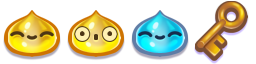
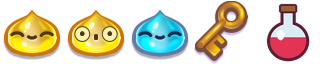
feat(rpg): an inventory: the key is taken, potions, a Potion button (#19)
Beyond the demo: what the player walks into is taken and stays taken
(game state `taken`, `qg:instance if=`); two potions lie on the map; a HUD
shows what it carries; in the fight a Potion button, while it has one,
gives back 5 life up to 10. The potion is drawn by scripts/art/rpg.py.
No language change: game state, qg:destroy and qg:button if= do it.

Claude-Session: https://claude.ai/code/session_01FsrC3AZ9jmgbCn58YFQdGA

diff --git a/scripts/art/rpg.py b/scripts/art/rpg.py
@@ -8,7 +8,8 @@ its world with three TileMapLayers whose tiles are single images, each
 placed flipped or transposed. Here every (image, transform) used becomes one
 64 px tile of assets/tiles.png, and the layers are printed as the CSV rows of
 the qg:tilemaps in rpg.q (the visible 20x11 cells). The pawns, the
-combatants and the combat background are packed as they are.
+combatants and the combat background are packed as they are. The potion,
+which the demo does not have, is drawn here (CC0) as the fifth pawn.
 """
 
 import base64
@@ -17,7 +18,7 @@ import struct
 import sys
 from pathlib import Path
 
-from PIL import Image
+from PIL import Image, ImageDraw
 
 OUT = Path(__file__).resolve().parents[2] / 'projects' / 'rpg' / 'assets'
 TILE, COLS, ROWS = 64, 20, 11
@@ -91,6 +92,24 @@ def sheet(demo: Path, files, cell: int) -> Image.Image:
     return out
 
 
+def potion() -> Image.Image:
+    """A round flask of red potion with a cork, in the demo's soft, outlined style."""
+    big = Image.new('RGBA', (256, 256), (0, 0, 0, 0))   # drawn 4x, then scaled down: smooth edges
+    d = ImageDraw.Draw(big)
+    outline, glass, red, shine = (90, 30, 50, 255), (220, 236, 245, 255), (226, 52, 84, 255), (255, 255, 255, 200)
+    d.ellipse((44, 84, 212, 244), fill=outline)                      # the bowl
+    d.rounded_rectangle((98, 36, 158, 110), 12, fill=outline)        # the neck
+    d.ellipse((56, 96, 200, 232), fill=glass)
+    d.rounded_rectangle((110, 48, 146, 112), 8, fill=glass)
+    liquid = Image.new('L', (256, 256), 0)                           # the potion: the bowl below its surface
+    ImageDraw.Draw(liquid).ellipse((56, 96, 200, 232), fill=255)
+    ImageDraw.Draw(liquid).rectangle((0, 0, 256, 148), fill=0)
+    big.paste(Image.new('RGBA', (256, 256), red), (0, 0), liquid)
+    d.rounded_rectangle((92, 16, 164, 52), 10, fill=(150, 98, 60, 255), outline=outline, width=8)   # the cork
+    d.ellipse((84, 120, 112, 160), fill=shine)
+    return big.resize((64, 64), Image.LANCZOS)
+
+
 def main(argv) -> int:
     if len(argv) != 1:
         print(__doc__)
@@ -110,7 +129,11 @@ def main(argv) -> int:
     for i, (image, flags) in enumerate(tiles):
         atlas.alpha_composite(transformed(demo, image, flags), ((i % per_row) * TILE, (i // per_row) * TILE))
     atlas.save(OUT / 'tiles.png')
-    sheet(demo, PAWNS, 64).save(OUT / 'pawns.png')
+    pawns = sheet(demo, PAWNS, 64)
+    with_potion = Image.new('RGBA', (pawns.width + 64, 64), (0, 0, 0, 0))
+    with_potion.alpha_composite(pawns)
+    with_potion.alpha_composite(potion(), (pawns.width, 0))
+    with_potion.save(OUT / 'pawns.png')
     sheet(demo, FIGHTERS, 128).save(OUT / 'fighters.png')
     Image.open(demo / 'combat' / 'background' / 'combat_background.png').convert('RGB').save(OUT / 'arena.png')
     for name in LAYERS:

diff --git a/tests/godot/test_godot_rpg.py b/tests/godot/test_godot_rpg.py
@@ -71,15 +71,38 @@ def test_a_wall_is_a_bump_that_takes_as_long_as_a_step(project):
     assert player(state)['y'] == 96.0 and 'talking' not in state
 
 
-def test_the_key_says_what_it_is_and_select_closes_it(project):
+def test_the_key_says_what_it_is_and_is_taken(project):
     # (3, 4) down to row 7, right to column 11, up the gap of the rocks to row 4, left into the key at (8, 4)
     walk = [('down', 1, 40), ('right', 50, 165), ('up', 180, 215), ('left', 230, 265)]
     state = play(project, 275, walk)
     assert (player(state)['col'], player(state)['row']) == (9, 4)
     assert state['talking'] == 'key' and state['paused'] is True
-    closed = play(project, 295, walk + [('select', 285, 286)])
+    assert 'key' not in state['things'] and state['game']['keys'] == 1        # beyond the demo: it is taken
+    assert state['game']['taken'] == ['key']
+    closed = play(project, 310, walk + [('select', 285, 286), ('select', 300, 301)])
     assert 'talking' not in closed and 'paused' not in closed
-    assert closed['things']['key'] == 1                                        # it stays where it is
+
+
+# Beyond the demo: two potions on the map, and a Potion button in the fight.
+TO_THE_POTION = [('up', 1, 45), ('left', 50, 70)]           # (3, 4) up to (3, 1), left to (2, 1), into (1, 1)
+
+
+def test_a_potion_is_picked_up(project):
+    state = play(project, 80, TO_THE_POTION)
+    assert state['talking'] == 'potion' and state['game']['potions'] == 1
+    assert state['things'] == {'key': 1, 'opponent': 1, 'potion': 1}           # the other one, at (14, 9)
+
+
+def test_a_potion_gives_back_five_life_up_to_ten_in_the_fight(project):
+    # from (2, 1): right to (11, 1), down to (11, 7), into the opponent; its three lines; the fight
+    to_fight = TO_THE_POTION + [('select', 90, 91), ('right', 100, 235), ('down', 240, 330), ('right', 340, 345),
+                                ('select', 360, 361), ('select', 375, 376), ('select', 390, 391)]
+    fight = play(project, 395, to_fight)
+    assert fight['scene'] == 'combat' and fight['game']['potions'] == 1
+    hit = to_fight + [('select', 400, 401)]                                     # Attack; the answer: 8 life
+    assert play(project, 425, hit)['life'] == 8
+    drunk = play(project, 445, hit + [('down', 428, 429), ('down', 432, 433), ('select', 440, 441)])
+    assert (drunk['life'], drunk['game']['potions'], drunk['turn']) == (10, 0, 'opponent')   # 8 + 5, at most 10
 
 
 def test_the_opponent_talks_three_lines_then_fights(project):

diff --git a/docs/targets/games.md b/docs/targets/games.md
@@ -3070,6 +3070,10 @@ Each one is written in these tags and nothing else, and replayed in CI from inpu
   <q:set name="outcome" value="" />
   <q:set name="back_col" value="3" type="number" />
   <q:set name="back_row" value="4" type="number" />
+  <!-- Beyond the demo: what the player carries, and what it took from the map, by name. -->
+  <q:set name="keys" value="0" type="number" />
+  <q:set name="potions" value="0" type="number" />
+  <q:set name="taken" value="[]" type="array" />
 
   <!-- The demo's ui_accept: Enter, Space, the joypad's A; and a click. -->
   <qg:input action="select" keys="Enter, Space, MouseLeft, JoyA" />
@@ -3083,6 +3087,7 @@ Each one is written in these tags and nothing else, and replayed in CI from inpu
 
   <qg:prefab name="Opponent" tag="opponent" sheet="pawns" frame="2" hitbox="48x48" />
   <qg:prefab name="Key" tag="key" sheet="pawns" frame="3" hitbox="48x48" />
+  <qg:prefab name="Potion" tag="potion" sheet="pawns" frame="4" hitbox="48x48" />
 
   <!-- ===== Exploration: grid_movement/exploration.tscn ===== -->
 
@@ -3127,7 +3132,9 @@ Each one is written in these tags and nothing else, and replayed in CI from inpu
 28,28,28,28,28,28,28,43,44,44,44,44,44,44,44,44,44,36,38,28
     </qg:tilemap>
 
-    <qg:instance prefab="Key" x="544" y="288" />
+    <qg:instance prefab="Key" name="key" x="544" y="288" if="{'key' not in taken}" />
+    <qg:instance prefab="Potion" name="potion-1" x="96" y="96" if="{'potion-1' not in taken}" />
+    <qg:instance prefab="Potion" name="potion-2" x="928" y="608" if="{'potion-2' not in taken}" />
     <qg:instance prefab="Opponent" x="800" y="480" />
 
     <qg:character id="player" controller="grid" diagonal="true" step-frames="15"
@@ -3136,7 +3143,16 @@ Each one is written in these tags and nothing else, and replayed in CI from inpu
       <qg:animation name="walk" frames="0" fps="1" />
       <qg:animation name="bump" frames="1" fps="1" />
       <qg:on-collision with="key">
+        <q:set name="taken" value="{taken + [other.name]}" />
+        <q:set name="keys" value="{keys + 1}" />
+        <qg:destroy target="other" />
         <qg:say dialogue="key" />
+      </qg:on-collision>
+      <qg:on-collision with="potion">
+        <q:set name="taken" value="{taken + [other.name]}" />
+        <q:set name="potions" value="{potions + 1}" />
+        <qg:destroy target="other" />
+        <qg:say dialogue="potion" />
       </qg:on-collision>
       <qg:on-collision with="opponent">
         <q:set name="back_col" value="{me.col}" />
@@ -3156,7 +3172,17 @@ Each one is written in these tags and nothing else, and replayed in CI from inpu
     </qg:dialogue>
     <qg:dialogue name="key" font="assets/montserrat_extra_bold.otf" size="28">
       <qg:line who="PLAYER" text="Just a key..." />
+      <qg:line who="PLAYER" text="I'll keep it anyway." />
     </qg:dialogue>
+    <qg:dialogue name="potion" font="assets/montserrat_extra_bold.otf" size="28">
+      <qg:line who="PLAYER" text="A potion! In a fight, it gives back 5 life." />
+    </qg:dialogue>
+
+    <!-- What the player carries. -->
+    <qg:hud position="top-left" font="assets/montserrat_extra_bold.otf" size="24">
+      <qg:counter bind="potions" label="Potions" />
+      <qg:counter bind="keys" label="Keys" />
+    </qg:hud>
     <qg:dialogue name="won" font="assets/montserrat_extra_bold.otf" size="28">
       <qg:line who="OPPONENT" text="Congratulations, you won!" />
       <qg:on-end><q:set name="outcome" value="" /></qg:on-end>
@@ -3223,6 +3249,12 @@ Each one is written in these tags and nothing else, and replayed in CI from inpu
       </qg:button>
       <qg:button label="Defend">
         <q:set name="armor" value="{armor + 1}" />
+        <q:call function="foes_turn" />
+      </qg:button>
+      <!-- beyond the demo: a potion gives back 5 life (health.gd's heal, up to the most) -->
+      <qg:button label="Potion" if="{potions > 0}">
+        <q:set name="potions" value="{potions - 1}" />
+        <q:set name="life" value="{min(10, life + 5)}" />
         <q:call function="foes_turn" />
       </qg:button>
       <qg:button label="Flee">

diff --git a/projects/rpg/README.md b/projects/rpg/README.md
@@ -34,6 +34,23 @@ These differences are deliberate:
 - The fight's names and life bars are a HUD over the background, not the demo's panels, and the buttons are the language's menu. The blue and green pillars are not drawn.
 - There is no fade to black between the map and the fight.
 
+## Beyond the demo
+
+The demo has a key that says "Just a key..." and nothing to carry. Here the
+player takes what it walks into, in the game state, so the map remembers it
+across fights:
+
+- the key: `keys`, and its name in `taken`, so its `qg:instance if=` leaves it
+  off the map from then on;
+- two potions on the map, at (1, 1) and (14, 9): `potions`;
+- a HUD with what it carries, and a Potion button in the fight, shown while
+  it has one: 5 life back, up to 10 (the demo's `health.gd` has a `heal`
+  nothing calls), and the opponent's turn.
+
+The potion is drawn by `scripts/art/rpg.py` (CC0). All of it is the
+language as it was: game state, `qg:instance if=`, `qg:destroy`, `qg:menu`
+buttons with `if=`.
+
 ## What the language had to grow
 
 1. **Grid walking**: `controller="grid"` steps from cell centre to cell
@@ -58,4 +75,5 @@ Every number above is checked in Godot by `tests/godot/test_godot_rpg.py`:
 - an attack, and the answer a quarter of a second later;
 - Defend's armor, for one hit;
 - four attacks that win, and the line on the map from where the fight started;
-- Flee, which loses.
+- Flee, which loses;
+- a potion picked up, and drunk in the fight.

diff --git a/docs/targets/play.md b/docs/targets/play.md
@@ -52,7 +52,7 @@ command line skips the title:
 - **Arena**: player 1 A/D, W jump, S crouch, J punch, K kick; player 2 the arrows, `.` punch, `/` kick. Hold away from the opponent to block.
 - **Chess**: click a piece, then a square (white first).
 - **Robot**: arrows or A/D; Up, W or the joypad's A jumps (again in the air); Space, Z or Ctrl shoots; Escape pauses.
-- **RPG**: arrows or WASD walk (two at once, diagonally); walk into someone to talk; Enter, Space or a click shows the next line; in the fight, Attack, Defend or Flee.
+- **RPG**: arrows or WASD walk (two at once, diagonally); walk into someone to talk; Enter, Space or a click shows the next line; in the fight, Attack, Defend, Potion or Flee.
 
 A joypad works everywhere: the pad or the left stick moves, A jumps or
 selects, B cancels. Player 2 reads the second joypad.

diff --git a/projects/rpg/assets/LICENSE.md b/projects/rpg/assets/LICENSE.md
@@ -7,7 +7,8 @@ and 2007-2014 Juan Linietsky, Ariel Manzur), packed by `scripts/art/rpg.py`:
 - `tiles.png`: the demo's tile images (`grid_movement/grid/tiles/`), each one
   flipped or turned as the demo's map places it, one 64 px tile per placement.
 - `pawns.png`: the player's two faces on the map, the opponent's, and the key
-  (`grid_movement/pawns/`, `grid_movement/grid/tiles/object.png`).
+  (`grid_movement/pawns/`, `grid_movement/grid/tiles/object.png`), and a
+  potion, which the demo does not have, drawn by the script (CC0).
 - `fighters.png`: the two slimes in the fight, each calm and surprised, and
   their shadow (`combat/combatants/sprites/`).
 - `arena.png`: the fight's background (`combat/background/combat_background.png`).

diff --git a/CHANGELOG.md b/CHANGELOG.md
@@ -10,6 +10,12 @@ alter the behaviour of an existing app is listed under **Breaking**.
 
 ### Added
 
+- Laboratory: the RPG has an inventory, beyond the demo it transcribes. The
+  key is taken and stays taken; two potions lie on the map; a HUD shows what
+  the player carries, and a Potion button in the fight gives back 5 life, up
+  to 10. All of it is written with the language as it was (game state,
+  `qg:instance if=`, `qg:destroy`, `qg:button if=`).
+
 - Laboratory: `qg:parallax`, a backdrop that the camera scrolls slower than
   the level (`scroll=`, from 0, still, to 1, with the level), repeating
   across. Robot has the demo's sky again: its clouds and distant platforms,
